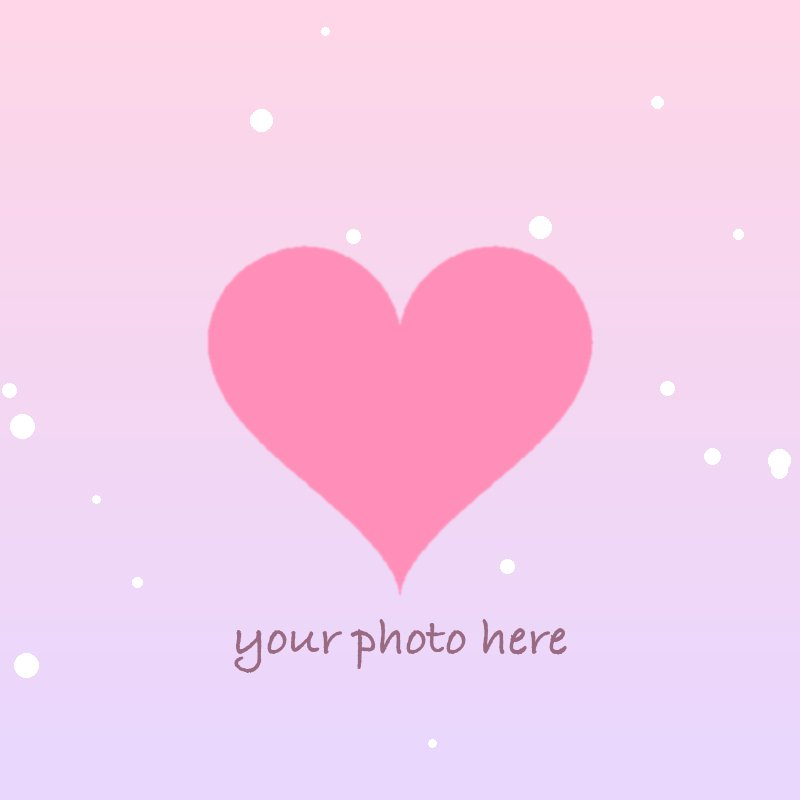
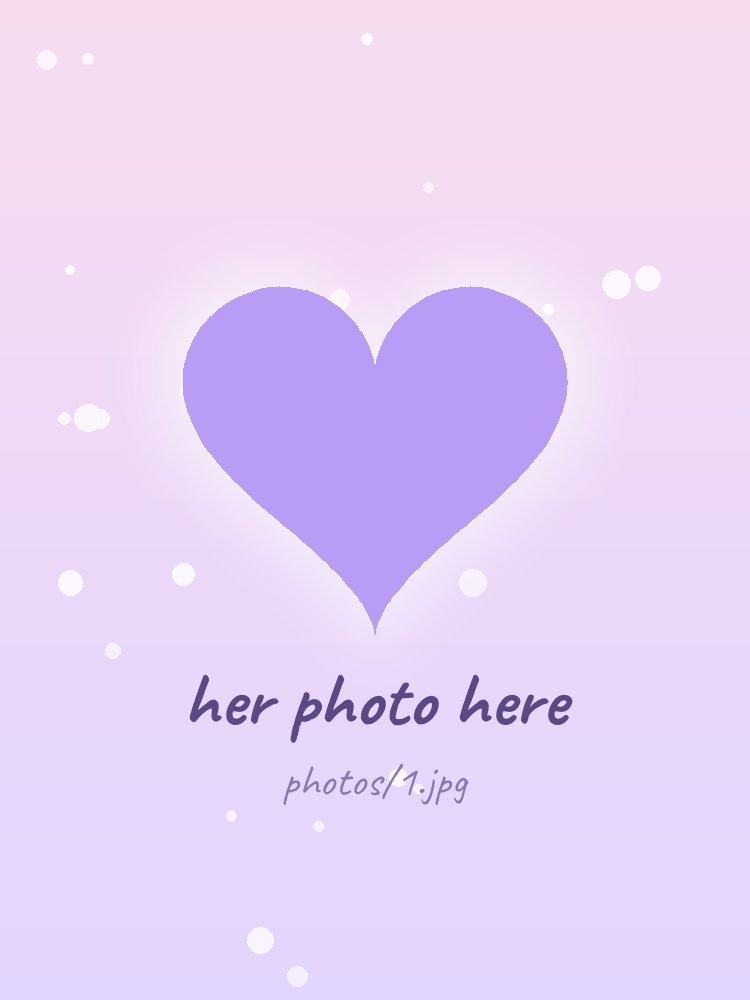
Photos screen for her photos: portrait frames that fit the screen, face-first crop, her-centred wording

diff --git a/style.css b/style.css
@@ -395,16 +395,37 @@ body[data-bg="dark"][data-scene="gifts"] .mute { background: rgba(255, 255, 255,
 .envelope.open .env-letter { transform: translateY(-58%); }
 
 /* ------------------------------------------------------------ polaroids */
+/* tall instant-film frames, since they're portraits of her */
 .stack {
-  --w: min(72vw, 290px);
+  --cap: 58px;                                      /* the caption strip under the photo */
+  --w: min(68vw, 270px, calc(75vh - 230px));        /* card width (container units refine it below) */
   position: relative;
   width: var(--w);
-  height: calc(var(--w) * 1.2);
+  height: calc((var(--w) - 24px) * 4 / 3 + 12px + var(--cap));
   margin: 6px 0 10px;
+  touch-action: none;
+}
+@supports (container-type: size) {
+  /* the stack takes the height the title, hint and button leave over and the card fits itself into it,
+     so a longer title or Samsung Internet's shorter screen never pushes the button off */
+  .stack {
+    container-type: size;
+    flex: 1 1 0;
+    min-height: 0;
+    width: 100%;
+    height: auto;
+    max-height: calc((min(68vw, 270px) - 24px) * 4 / 3 + 12px + var(--cap) + 20px);
+  }
+  .polaroid { --w: min(68vw, 270px, max(150px, (100cqh - 20px - 12px - var(--cap)) * 3 / 4 + 24px)); }
 }
 .polaroid {
+  --h: calc((var(--w) - 24px) * 4 / 3 + 12px + var(--cap));
   position: absolute;
-  inset: 0;
+  top: 50%;
+  left: 50%;
+  width: var(--w);
+  height: var(--h);
+  margin: calc(var(--h) / -2) 0 0 calc(var(--w) / -2);
   padding: 12px 12px 0;
   border-radius: 4px;
   background: #fefcff;
@@ -418,7 +439,7 @@ body[data-bg="dark"][data-scene="gifts"] .mute { background: rgba(255, 255, 255,
 .polaroid.back { transition: transform 0.45s cubic-bezier(.3, 1.4, .5, 1); }
 .polaroid .pic {
   width: 100%;
-  aspect-ratio: 1;
+  aspect-ratio: 3 / 4;
   border-radius: 2px;
   background: linear-gradient(135deg, var(--lav-light), var(--lav));
   overflow: hidden;
@@ -427,12 +448,13 @@ body[data-bg="dark"][data-scene="gifts"] .mute { background: rgba(255, 255, 255,
   width: 100%;
   height: 100%;
   object-fit: cover;
+  object-position: 50% 30%;     /* a face sits in the upper part of most portraits (config: focus moves it) */
   display: block;
   pointer-events: none;
 }
 .polaroid .caption {
   margin: 0;
-  height: calc(var(--w) * 1.2 - var(--w) + 24px - 12px);
+  height: var(--cap);
   display: grid;
   place-items: center;
   padding: 0 8px;
@@ -441,6 +463,7 @@ body[data-bg="dark"][data-scene="gifts"] .mute { background: rgba(255, 255, 255,
   font-weight: 700;
   line-height: 1.05;
   color: var(--ink);
+  text-wrap: balance;
 }
 .polaroid::before {           /* washi tape */
   content: "";

diff --git a/config.js b/config.js
@@ -38,13 +38,16 @@ export const CONFIG = {
     },
   ],
 
-  photosTitle: "a few favourite moments",
+  photosTitle: "a few favourite pictures of you",
+  // her photos: put them in /photos as 1.jpg, 2.jpg… (any number; portrait shots fill the frame best).
+  // If a face gets cut off, add  focus: "top"  (or e.g. "50% 15%") to that photo to move the crop.
   photos: [
-    { src: "photos/1.jpg", caption: "add a favourite photo here 📸" },
-    { src: "photos/2.jpg", caption: "a day I still smile about" },
-    { src: "photos/3.jpg", caption: "this one makes me laugh every time" },
-    { src: "photos/4.jpg", caption: "the best kind of chaos" },
+    { src: "photos/1.jpg", caption: "that smile 🌸" },
+    { src: "photos/2.jpg", caption: "main character energy ✨" },
+    { src: "photos/3.jpg", caption: "a whole mood 💫" },
+    { src: "photos/4.jpg", caption: "effortlessly lovely 💜" },
   ],
+  photosDone: "here's to many more smiles 💜",   // shown once she's gone through them all
 
   letter: [
     "Hey {name},",

diff --git a/app.js b/app.js
@@ -1507,6 +1507,7 @@ function buildStack() {
     el.innerHTML = '<div class="pic"><img alt="" draggable="false"></div><p class="caption"></p>';
     const img = el.querySelector('img');
     img.onerror = () => img.remove();
+    if (p.focus) img.style.objectPosition = p.focus;
     img.src = p.src;
     el.querySelector('.caption').textContent = fill(p.caption);
     stack.appendChild(el);
@@ -1547,7 +1548,7 @@ function buildStack() {
     setTimeout(() => {
       c.remove();
       if (stack.children.length) return;
-      swapText($('#photoHint'), 'more memories coming soon, I hope 💜');
+      swapText($('#photoHint'), fill(CONFIG.photosDone));
       $('#toLetter').classList.remove('hidden');
     }, 650);
   }
